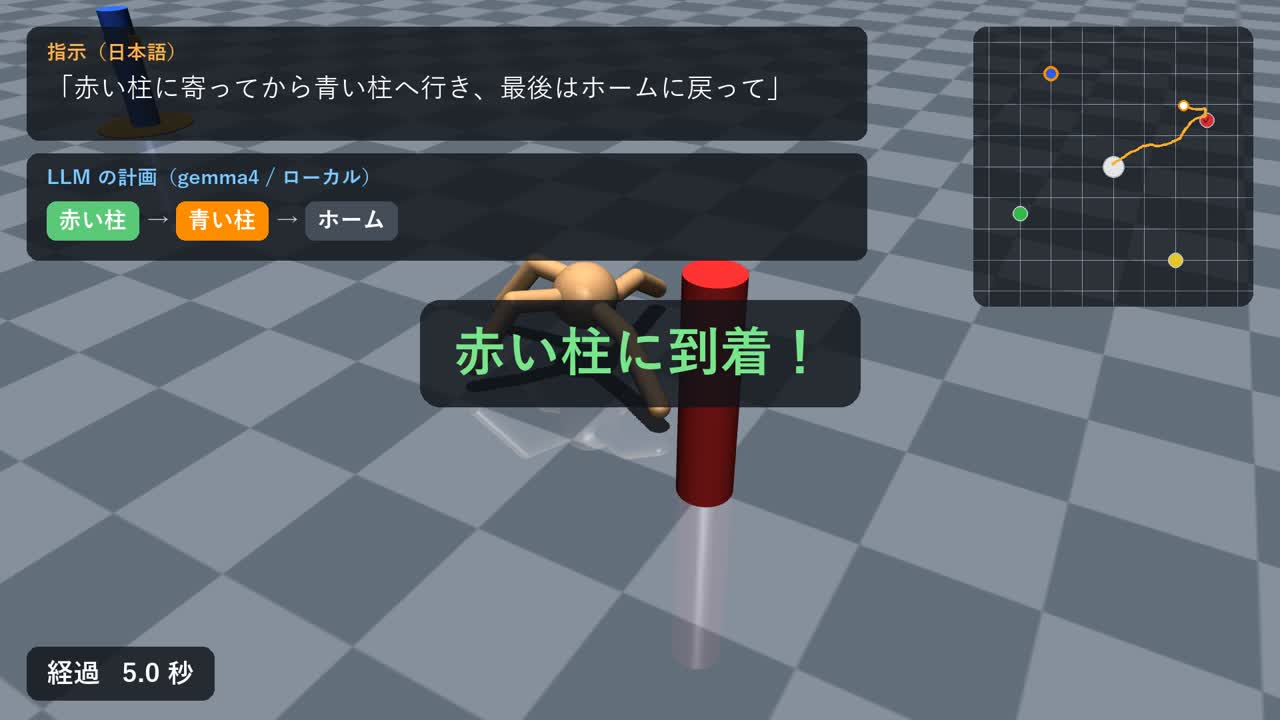
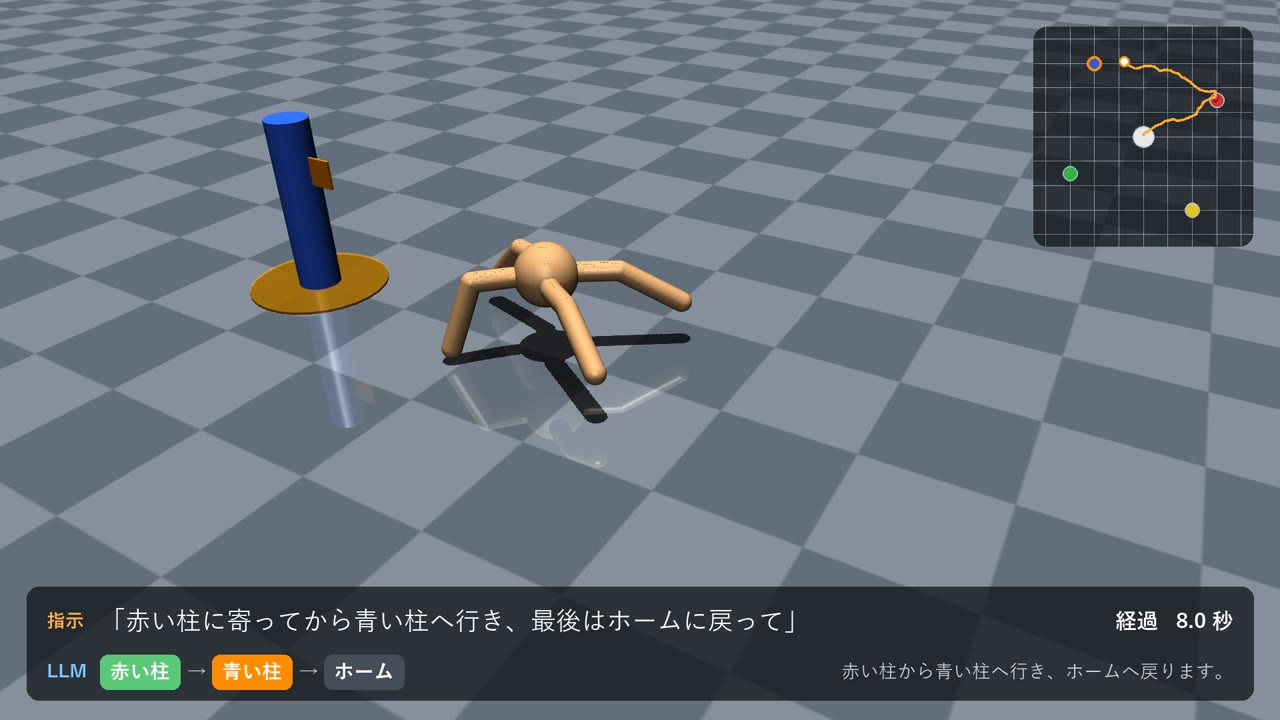
Move demo captions to a bottom band so the scene stays visible

diff --git a/demo.py b/demo.py
@@ -93,50 +93,44 @@ def compose(frame, instruction, reply, route, leg, visited, trail, t, label, spe
     layer = Image.new("RGBA", img.size, (0, 0, 0, 0))
     d = ImageDraw.Draw(layer)
 
-    y = 40
+    # 文字はすべて画面下端の帯にまとめ、ロボットと柱が映る上〜中央を空けておく
+    foot = f"経過 {t:5.1f} 秒" + (f"   ▶▶ {speed}倍速" if speed > 1 else "")
     if instruction:
-        panel(d, (40, y, 1300, y + 170))
-        d.text((70, y + 22), "指示（日本語）", font=font(30, "bold"), fill=(255, 175, 70))
-        d.text((70, y + 70), f"「{instruction}」", font=font(40), fill=(255, 255, 255))
-        y += 190
-    if route and instruction:
-        panel(d, (40, y, 1300, y + 160))
-        d.text((70, y + 20), "LLM の計画（gemma4 / ローカル）", font=font(30, "bold"), fill=(120, 200, 255))
-        x = 70
+        top = H - 200
+        panel(d, (40, top, W - 40, H - 30), alpha=190)
+        y1, y2 = top + 52, top + 128
+        d.text((70, y1), "指示", font=font(28, "bold"), fill=(255, 175, 70), anchor="lm")
+        d.text((150, y1), f"「{instruction}」", font=font(38), fill=(255, 255, 255), anchor="lm")
+        d.text((70, y2), "LLM", font=font(28, "bold"), fill=(120, 200, 255), anchor="lm")
+        x = 150
         for i, k in enumerate(route):
             txt = LANDMARK_JA[k]
             done = i < len(visited)
             cur = i == leg and not done
             fill = (255, 140, 0, 255) if cur else ((90, 200, 120, 255) if done else (70, 76, 88, 255))
-            tw = d.textlength(txt, font=font(34, "bold"))
-            d.rounded_rectangle((x, y + 72, x + tw + 36, y + 130), radius=14, fill=fill)
-            d.text((x + 18, y + 101), txt, font=font(34, "bold"), fill=(255, 255, 255), anchor="lm")
-            x += tw + 36
+            tw = d.textlength(txt, font=font(30, "bold"))
+            d.rounded_rectangle((x, y2 - 26, x + tw + 30, y2 + 26), radius=12, fill=fill)
+            d.text((x + 15, y2), txt, font=font(30, "bold"), fill=(255, 255, 255), anchor="lm")
+            x += tw + 30
             if i < len(route) - 1:
-                d.text((x + 12, y + 101), "→", font=font(34, "bold"), fill=(200, 200, 200), anchor="lm")
-                x += 56
-    if label:
-        panel(d, (40, y, 40 + d.textlength(label, font=font(56, "bold")) + 60, y + 100))
-        d.text((70, y + 50), label, font=font(56, "bold"), fill=(255, 255, 255), anchor="lm")
+                d.text((x + 10, y2), "→", font=font(30, "bold"), fill=(200, 200, 200), anchor="lm")
+                x += 48
+        d.text((W - 70, y1), foot, font=font(32, "bold"), fill=(255, 255, 255), anchor="rm")
+        if reply:
+            d.text((W - 70, y2), reply, font=font(28), fill=(200, 210, 222), anchor="rm")
+    else:
+        panel(d, (40, H - 120, W - 40, H - 30), alpha=190)
+        d.text((70, H - 75), label, font=font(44, "bold"), fill=(255, 255, 255), anchor="lm")
+        d.text((W - 70, H - 75), foot, font=font(32, "bold"), fill=(255, 255, 255), anchor="rm")
 
-    mm = minimap(420, trail, route[min(leg, len(route) - 1)] if route else None, visited=visited)
-    layer.alpha_composite(mm, (W - 460, 40))
+    mm = minimap(330, trail, route[min(leg, len(route) - 1)] if route else None, visited=visited)
+    layer.alpha_composite(mm, (W - 370, 40))
 
-    foot = f"経過 {t:5.1f} 秒" + (f"   ▶▶ {speed}倍速" if speed > 1 else "")
-    panel(d, (40, H - 110, 40 + d.textlength(foot, font=font(40, "bold")) + 60, H - 30))
-    d.text((70, H - 70), foot, font=font(40, "bold"), fill=(255, 255, 255), anchor="lm")
-
-    if reply and not flash:
-        tw = d.textlength(reply, font=font(36))
-        panel(d, (W - 80 - tw, H - 110, W - 40, H - 30))
-        d.text((W - 60 - tw, H - 70), reply, font=font(36), fill=(220, 230, 240), anchor="lm")
-    if flash:
-        msg = flash[0]
-        tw = d.textlength(msg, font=font(80, "bold"))
-        panel(d, (W / 2 - tw / 2 - 50, H / 2 - 90, W / 2 + tw / 2 + 50, H / 2 + 70), alpha=200, radius=30)
-        d.text((W / 2, H / 2 - 10), msg, font=font(80, "bold"), fill=(120, 230, 140), anchor="mm")
-    if fell:
-        d.text((W / 2, H / 2), "転倒", font=font(90, "bold"), fill=(255, 90, 90), anchor="mm")
+    msg, color = (("転倒", (255, 90, 90)) if fell else (flash[0], (120, 230, 140)) if flash else (None, None))
+    if msg:
+        tw = d.textlength(msg, font=font(64, "bold"))
+        panel(d, (W / 2 - tw / 2 - 40, 40, W / 2 + tw / 2 + 40, 150), alpha=200, radius=26)
+        d.text((W / 2, 95), msg, font=font(64, "bold"), fill=color, anchor="mm")
 
     img.alpha_composite(layer)
     return np.asarray(img.convert("RGB"))
@@ -147,6 +141,7 @@ def main():
     p.add_argument("--text", default="", help="日本語の指示（LLM で経由地に変換）")
     p.add_argument("--route", default="", help="経由地をカンマ区切りで直接指定（例: red,blue,home）")
     p.add_argument("--model", default=os.path.join(HERE, "models", "final_model.zip"))
+    p.add_argument("--reply", default="", help="--text と --route を両方渡したときに表示する LLM の返答")
     p.add_argument("--label", default="")
     p.add_argument("--seconds", type=float, default=None, help="打ち切り秒数")
     p.add_argument("--speed", type=int, default=1)
@@ -154,8 +149,11 @@ def main():
     p.add_argument("--out", default=os.path.join(HERE, "runs", "demo.mp4"))
     args = p.parse_args()
 
-    reply, source = "", "manual"
-    if args.text:
+    reply, source = args.reply, "manual"
+    if args.text and args.route:  # 計画済み（LLM を呼ばずに再録画）
+        route = [r for r in args.route.split(",") if r]
+        source = "cached"
+    elif args.text:
         res = plan(args.text)
         route, reply, source = res["route"], res["reply"], res["source"]
     else:

diff --git a/make_video.py b/make_video.py
@@ -49,8 +49,17 @@ def render_clips(force=False):
     for name, text, speed in DEMOS:
         out = os.path.join(CLIPS, f"{name}.mp4")
         if force or not os.path.exists(out):
-            subprocess.run([py, os.path.join(HERE, "demo.py"), "--text", text, "--speed", str(speed),
-                            "--seed", "1", "--out", out], check=True)
+            cmd = [py, os.path.join(HERE, "demo.py"), "--text", text, "--speed", str(speed), "--seed", "1", "--out", out]
+            log_path = os.path.splitext(out)[0] + ".json"
+            prev = json.load(open(log_path, encoding="utf-8")) if os.path.exists(log_path) else None
+            if prev:  # LLM の計画は前回の結果を使い回す（温度 0 なので同じ出力）
+                cmd += ["--route", ",".join(prev["route"]), "--reply", prev["reply"]]
+            subprocess.run(cmd, check=True)
+            if prev:
+                log = json.load(open(log_path, encoding="utf-8"))
+                log["planner"] = prev["planner"]
+                with open(log_path, "w", encoding="utf-8") as f:
+                    json.dump(log, f, ensure_ascii=False, indent=1)
 
 
 def card(name, seconds, *a, frame=None, **kw):
